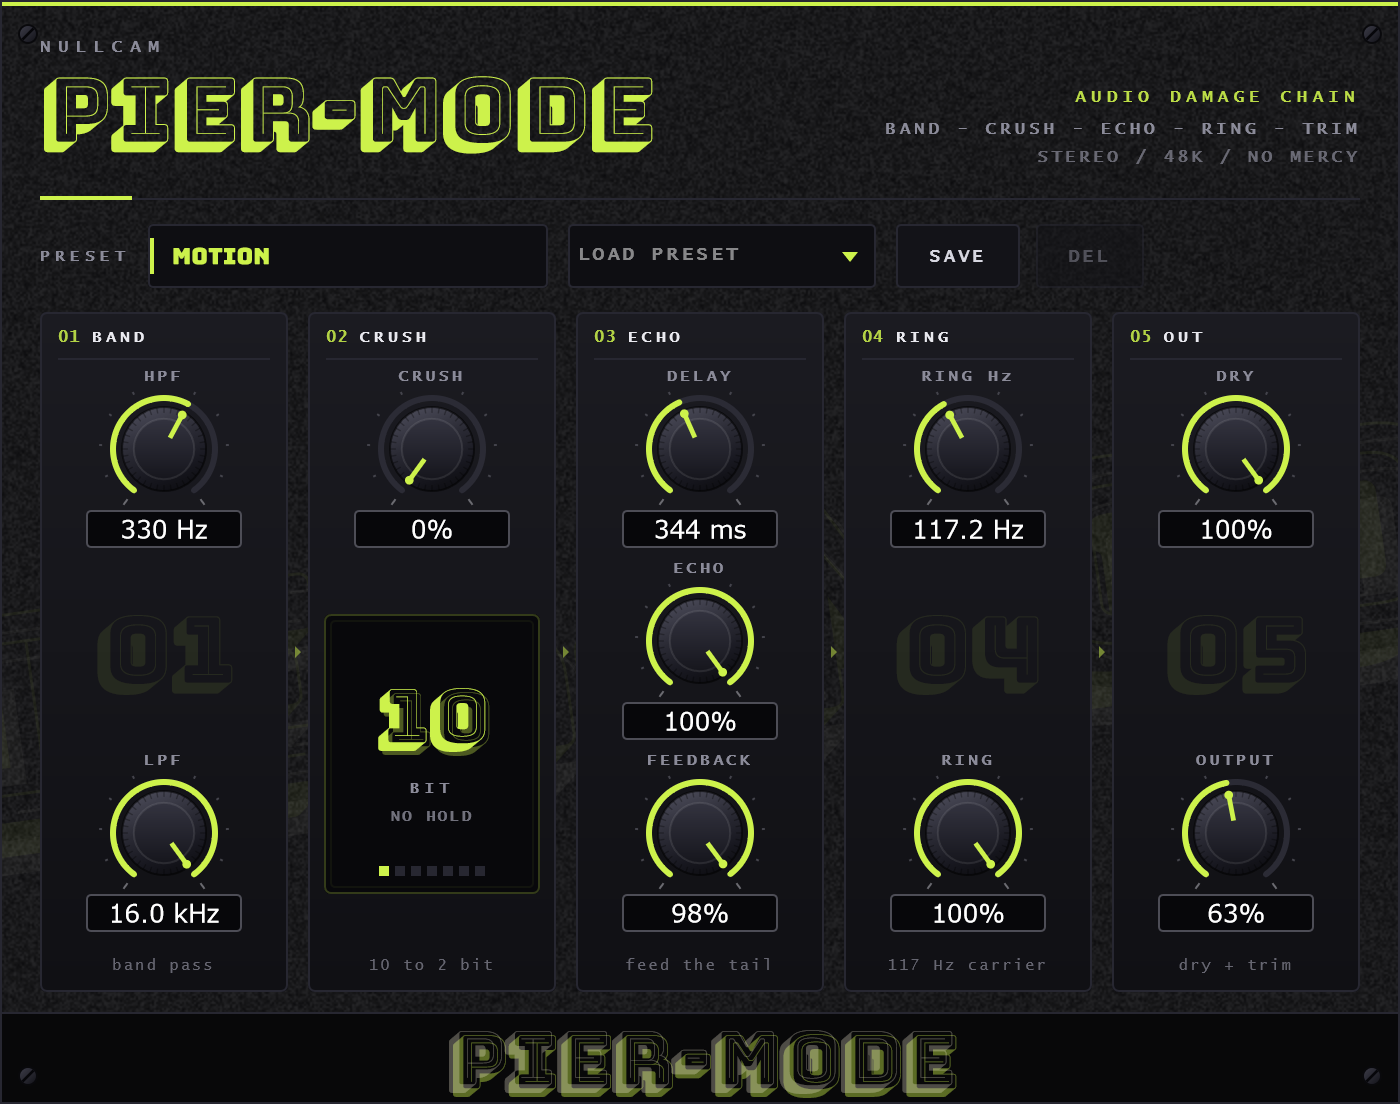
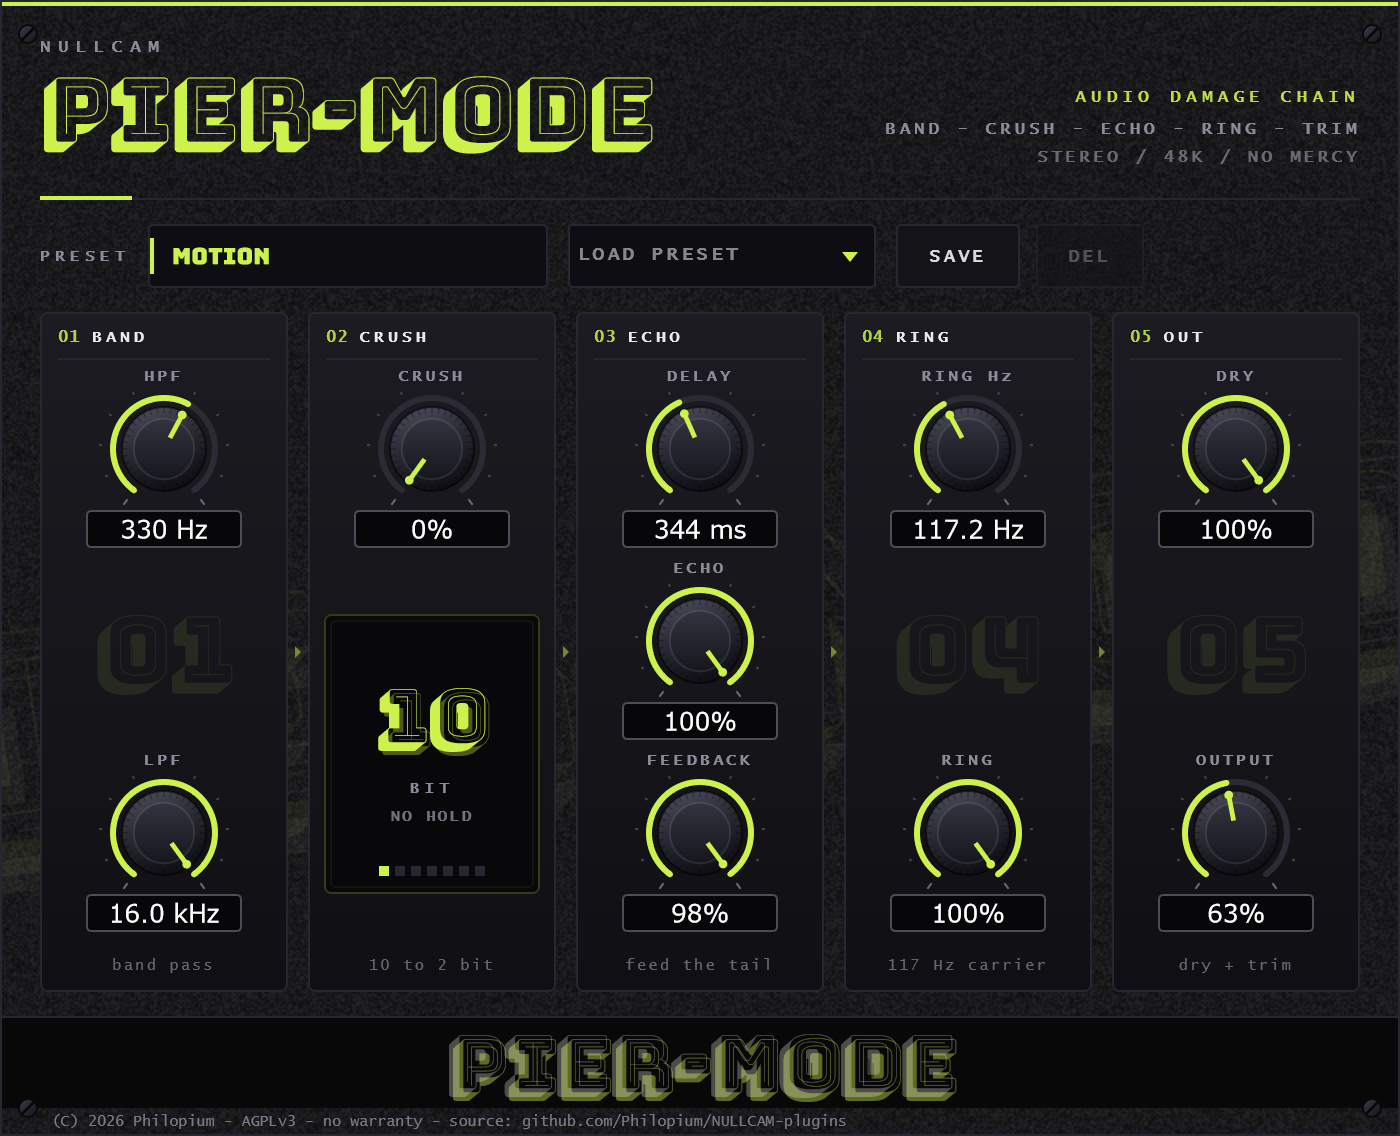
Panels: print the AGPLv3 legal notice (copyright, licence, no warranty, source)

diff --git a/PIER-MODE/Source/PluginEditor.cpp b/PIER-MODE/Source/PluginEditor.cpp
@@ -6,7 +6,7 @@ namespace
 {
 // The panel is a fixed card, like a pedal: everything is placed from these numbers.
 constexpr int kWidth = 700;
-constexpr int kHeight = 552;
+constexpr int kHeight = 568;
 constexpr int kMargin = 20;
 constexpr int kHeaderH = 82;
 constexpr int kPresetBarH = 32;
@@ -16,6 +16,7 @@ constexpr int kStageTitleH = 26;
 constexpr int kKnobCellH = 96;
 constexpr int kStageCaptionH = 20;
 constexpr int kBaseH = 46;
+constexpr int kLegalH = 14;
 
 constexpr int kMotionItem = 1;
 constexpr int kSortItem = 2;
@@ -689,7 +690,7 @@ void NullcamChainAudioProcessorEditor::paintBitReadout (juce::Graphics& g, const
 
 void NullcamChainAudioProcessorEditor::paintBaseplate (juce::Graphics& g)
 {
-    const auto area = juce::Rectangle<int> (0, getHeight() - kBaseH, getWidth(), kBaseH);
+    const auto area = juce::Rectangle<int> (0, getHeight() - kLegalH - kBaseH, getWidth(), kBaseH);
 
     if (area.isEmpty())
         return;
@@ -703,14 +704,26 @@ void NullcamChainAudioProcessorEditor::paintBaseplate (juce::Graphics& g)
     // used as artwork rather than as a label.
     const juce::String mark ("PIER-MODE");
 
-    juce::Graphics::ScopedSaveState clip (g);
-    g.reduceClipRegion (area);
+    {
+        juce::Graphics::ScopedSaveState clip (g);
+        g.reduceClipRegion (area);
 
-    g.setFont (lookAndFeel.shadeFont (48.0f));
-    g.setColour (PierLookAndFeel::acid().withAlpha (0.42f));
-    g.drawText (mark, area.translated (2, 2), juce::Justification::centred, false);
-    g.setColour (PierLookAndFeel::cream().withAlpha (0.30f));
-    g.drawText (mark, area, juce::Justification::centred, false);
+        g.setFont (lookAndFeel.shadeFont (48.0f));
+        g.setColour (PierLookAndFeel::acid().withAlpha (0.42f));
+        g.drawText (mark, area.translated (2, 2), juce::Justification::centred, false);
+        g.setColour (PierLookAndFeel::cream().withAlpha (0.30f));
+        g.drawText (mark, area, juce::Justification::centred, false);
+    }
+
+    // The legal notice the AGPLv3 asks for, printed on the thin strip under the
+    // band: the copyright, the licence, the absence of warranty and where the
+    // source code is.
+    const auto legal = juce::Rectangle<int> (0, area.getBottom(), getWidth(), kLegalH);
+
+    g.setFont (lookAndFeel.monoFont (7.5f));
+    g.setColour (PierLookAndFeel::dim().withAlpha (0.85f));
+    g.drawText ("(C) 2026 Philopium - AGPLv3 - no warranty - source: github.com/Philopium/NULLCAM-plugins",
+                legal.reduced (26, 1), juce::Justification::centredLeft, false);
 }
 
 void NullcamChainAudioProcessorEditor::paintScrews (juce::Graphics& g)

diff --git a/MAURI-MODE/Source/PluginEditor.cpp b/MAURI-MODE/Source/PluginEditor.cpp
@@ -586,9 +586,23 @@ void MauriModeAudioProcessorEditor::paint (juce::Graphics& g)
     }
 
     paintGrid (g);
+    paintLegalNotice (g);
 
     g.setColour (MauriLookAndFeel::line());
     g.drawRect (getLocalBounds(), 1);
+}
+
+// The legal notice the AGPLv3 asks for, printed along the bottom edge: the
+// copyright, the licence, the absence of warranty and where the source is.
+void MauriModeAudioProcessorEditor::paintLegalNotice (juce::Graphics& g)
+{
+    const auto area = juce::Rectangle<int> (kMargin, getHeight() - 15,
+                                            getWidth() - 2 * kMargin, 12);
+
+    g.setFont (lookAndFeel.monoFont (7.0f));
+    g.setColour (MauriLookAndFeel::dim().withAlpha (0.55f));
+    drawTracked (g, "(C) 2026 Philopium - AGPLv3 - no warranty - source: github.com/Philopium/NULLCAM-plugins",
+                 area, 0.05f, juce::Justification::centredLeft);
 }
 
 void MauriModeAudioProcessorEditor::paintBackground (juce::Graphics& g)

diff --git a/MAURI-MODE/Source/PluginEditor.h b/MAURI-MODE/Source/PluginEditor.h
@@ -118,6 +118,7 @@ private:
     void paintCard (juce::Graphics&, const Card&);
     void paintScope (juce::Graphics&, const Card&);
     void paintGrid (juce::Graphics&);
+    void paintLegalNotice (juce::Graphics&);
 
     void paintSlicedImage (juce::Graphics&, const juce::Image&, juce::Rectangle<int>,
                            int bands, float opacity, int seed);
